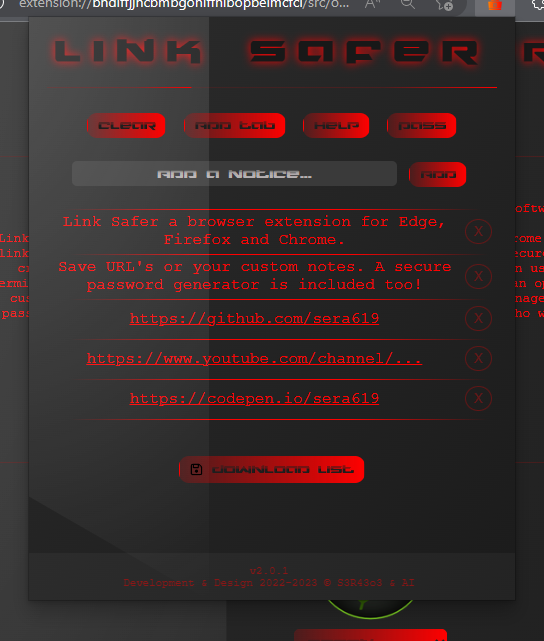
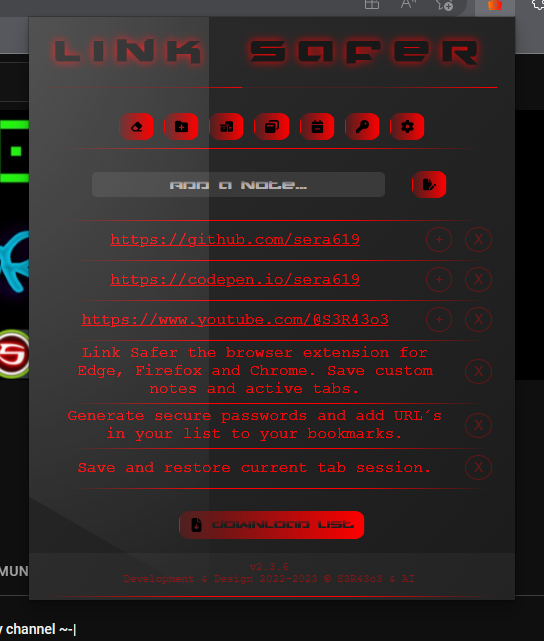
hotfix bugs add bookmark and restore session

diff --git a/src/options.html b/src/options.html
@@ -5,7 +5,7 @@
     <meta http-equiv="Content-Type" content="text/html;charset=UTF-8" />
     <meta name="viewport" content="width=device-width, initial-scale=1.0">
     <title>Link Safer | Help</title>
-    <link rel="stylesheet"  href="../style.css">
+    <link rel="stylesheet" href="../style.css">
     <script src="options.js"></script>
 </head>
 <body class="optionbody">
@@ -17,20 +17,44 @@
             <hr class="line-anim">
             <h4>Current Version: <u id="version">1.3.2</u></h4>
             <p id="option-desc">First off, thank you very much for using my software!<br>
-                <br>Link Safer is a browser extension for Microsoft Edge and Google Chrome that allows users to save links and notes securely. Its been planned a feature to generate secure passwords. Link Safer is created by S3R43o3 using HTML, CSS, and JavaScript. The extension uses the storage and tabs permissions to store and access the user's data. The extension has an options page where users can customize their settings, and a popup where users can view and manage their links, notes, and passwords. Link Safer is a useful and convenient tool for anyone who wants to keep their online data safe and organized.
+                <br>Link Safer is a browser extension for Microsoft Edge and Google Chrome that allows users to save links and notes securely. It has a planned feature to generate secure passwords. Link Safer is created by S3R43o3 using HTML, CSS, and JavaScript. The extension uses the storage and tabs permissions to store and access the user's data. The extension has an options page where users can customize their settings and a popup where users can view and manage their links, notes, and passwords. Link Safer is a useful and convenient tool for anyone who wants to keep their online data safe and organized.
                 <br>
             </p>
+            <div class="line"></div>
+            <br>
+            <br>
+            <br>
+    <h2>User instructions</h2>
+            <br>
+            <br>
+	<ol>
+		<li>To add a new link or notice, enter the URL or text in the input field and click the "Add" button.</li>
+		<li>To add the current active tab to the list, click the "Add Current Tab" button.</li>
+		<li>To remove a link or notice from the list, click the "X" button next to it.</li>
+		<li>To open a link, click on the link text.</li>
+		<li>To add a link to bookmarks, click the "+" button next to it.</li>
+		<li>To clear the entire list, click the "Clear List" button.</li>
+		<li>To download the list as a text file, click the "Download" button.</li>
+		<li>To open the options/help menu, click the "Options" button.</li>
+		<li>To open the password generator, click the "Password Generator" button.</li>
+		<li>To save the current tab session, click the "Save Session" button.</li>
+		<li>To restore the saved tab session, click the "Restore Session" button.</li>
+	</ol>
+
+	<p>Please note that URLs starting with "http", "https", "chrome:", "edge:", or "chrome-extension:" are considered safe and clickable.</p>
         </div>
         <br>
         <br>
+        <div class="line"></div>
         <br>
         <br>
         <br>
         <br>
         <div class="optionsection">
             <h2>Options</h2>
-            <hr class="line-anim">
-            <label for="iconselect">Choose a iconstyle</label>
+            <br>
+            <br>
+            <label for="iconselect">Choose an icon style</label>
             <br>
             <div class="iconpreview">
                 <br>
@@ -43,40 +67,25 @@
                 <option value="hacker">Hacker</option>
                 <option value="smart-key">Smart Key</option>
                 <option value="web-key">Web Key</option>
-              </select>
-              <br>
-              <br>
-
+            </select>
+            <br>
+            <br>
             <button id="change-icon-btn" class="button-with-icon">
                 <img src="../assets/img/rotate-solid.svg" alt="GitHub Icon" class="icon">
                 Change Icon
             </button>
-            <!--
-
-                <div class="color-scheme-container">
-                    <label for="color-scheme">Choose a color scheme</label>
-                    <input type="radio" id="color-scheme-light" name="color-scheme" value="light" checked>
-                    <label for="color-scheme-light">Light</label>
-                    <input type="radio" id="color-scheme-dark" name="color-scheme" value="dark">
-                    <label for="color-scheme-dark">Dark</label>
-                </div>
-                <br>
-                <button id="change-scheme-btn" class="button-with-icon">
-                <img src="/assets/img/rotate-solid.svg" alt="GitHub Icon" class="icon">
-                Change Theme
-            </button>
-        -->
+            
         </div>
-        <br>
         <br>
         <br>
         <br>
         <br>
         <p id="option-desc">
             <h2>Contact</h2>
-            <hr class="line-anim">
+            
+            <br>
             <br><b><u>Please note:</u></b><br>This project is special. The addon is being developed by an artificial intelligence, with little assistance from me.
-            <br>If you have any problems, suggestions or questions, you can reach me via the following buttons.
+            <br>If you have any problems, suggestions, or questions, you can reach me via the following buttons.
             <br>
             <br>
             <b>All the best!</b>
@@ -84,27 +93,26 @@
             <b>2023 © S3R43o3</b>
         </p>
         <div class="social-container">
-            
-                <button id="social-github" class="button-with-icon">
-                    <img src="../assets/img/github.svg" alt="GitHub Icon" class="icon" >
-                    Github
-                </button>
-                <br>
-                <br>
-                <button id="social-youtube" class="button-with-icon">
-                    <img src="../assets/img/youtube.svg" alt="GitHub Icon" class="icon" >
-                    Youtube
-                </button>
-                <br>
-                <button id="social-codepen" class="button-with-icon">
-                    <img src="../assets/img/codepen.svg" alt="GitHub Icon" class="icon" >
-                    Codepen
-                </button>
-                <br>
-                <button id="social-thm" class="button-with-icon">
-                    <img src="../assets/img/user-secret-solid.svg" alt="GitHub Icon" class="icon">
-                    TryHackMe
-                </button>
+            <button id="social-github" class="button-with-icon">
+                <img src="../assets/img/github.svg" alt="GitHub Icon" class="icon" >
+                GitHub
+            </button>
+            <br>
+            <br>
+            <button id="social-youtube" class="button-with-icon">
+                <img src="../assets/img/youtube.svg" alt="YouTube Icon" class="icon" >
+                YouTube
+            </button>
+            <br>
+            <button id="social-codepen" class="button-with-icon">
+                <img src="../assets/img/codepen.svg" alt="CodePen Icon" class="icon" >
+                CodePen
+            </button>
+            <br>
+            <button id="social-thm" class="button-with-icon">
+                <img src="../assets/img/user-secret-solid.svg" alt="TryHackMe Icon" class="icon">
+                TryHackMe
+            </button>
         </div>
     </center>
 </body>

diff --git a/popup.js b/popup.js
@@ -226,7 +226,7 @@ function myConfirm(message, title = "Attention") {
 	modalContent.style.display = "block";
 	modalContent.style.margin = "8px";
 	modalContent.style.padding = "20px";
-	modalContent.style.border = "1px solid #888";
+	//modalContent.style.border = "1px solid #888";
 	modalContent.style.width = "80%";
 
 	var h = document.createElement("h3");
@@ -234,6 +234,7 @@ function myConfirm(message, title = "Attention") {
 
 	modalContent.appendChild(h);
 	var hr = document.createElement("hr");
+	hr.className = "line-anim"
 	modalContent.appendChild(hr);
 
 	var p = document.createElement("p");
@@ -299,12 +300,42 @@ function getBookmarkDirs(callback) {
 	});
 }
 
+function createBookmark() {
+    const bookmarkName = document.getElementById("bookmark-name");
+    const bookmarkURL = document.getElementById("bookmark-url");
+    const bookmarkDirSelect = document.getElementById("bookmark-dir-select");
+    const selectedDir = bookmarkDirSelect.options[bookmarkDirSelect.selectedIndex].text;
+
+	if(bookmarkName === ""){
+		myConfirm("Please enter a valid name for your new bookmark!", "attention");
+		return;
+	} else {
+
+		chrome.bookmarks.getTree(function (bookmarkTreeNodes) {
+			bookmarkTreeNodes.forEach(function (node) {
+				if (node.children) {
+					node.children.forEach(function (child) {
+						if (child.title === selectedDir) {
+							chrome.bookmarks.create({ parentId: child.id, title: bookmarkName.value, url: bookmarkURL.value }, function (newBookmark) {
+								//console.log("Bookmark created:", newBookmark);
+								myConfirm("The URL: "+bookmarkURL+" successfully saved with name: "+bookmarkName+" !", "success");
+								bookmarkName.value = "";
+								bookmarkURL.value = "";
+							});
+						}
+					});
+				}
+			});
+		});
+	}
+}
+
+
 function showBookmarkDisplay(link) {
 	var bookmarkframe = document.getElementById("bookmarkframe");
 	var mainframe = document.getElementById("main");
 	bookmarkframe.toggleAttribute("hidden");
 	mainframe.toggleAttribute("hidden");
-	const bookmarkName = document.getElementById("bookmark-name");
 	const bookmarkURL = document.getElementById("bookmark-url");
 	const bookmarkDirSelect = document.getElementById("bookmark-dir-select");
 	bookmarkURL.value = link;
@@ -375,7 +406,7 @@ async function downloadTextFile() {
 		a.href = url;
 		a.download = "links.txt";
 		a.click();
-		myConfirm("Your link & notice list successfully downloaded!", "Information");
+		myConfirm("Your link & notice list successfully downloaded!", "success");
 		a.remove();
 	});
 }
@@ -412,30 +443,36 @@ function addTooltip(element, description) {
 }
 
 function restoreTabsFromSyncStorage() {
-	chrome.storage.sync.get("savedTabs", function (result) {
-		var tabData = result.savedTabs || [];
+	chrome.storage.sync.get('savedTabs', function (data) {
+		var savedTabs = data.savedTabs || [];
 
-		tabData.forEach(function (tab) {
+		savedTabs.forEach(function (tab) {
 			chrome.tabs.create({
-				url: tab.url,
-				active: false
+				url: tab.url
 			});
 		});
 
-		console.log("Tabs restored from sync storage:", tabData);
+		console.log("Tabs restored from sync storage:", savedTabs);
+		myConfirm("Last saved tab session successfully restored from sync storage!", "success")
 	});
 }
 
+function deleteTabsFromSyncStorage() {
+	chrome.storage.sync.remove('savedTabs', function () {
+		console.log("Tabs deleted from sync storage");
+		myConfirm("Tabs deleted from sync storage successfully!", "success");
+	});
+}
+
+
 function saveTabsToSyncStorage() {
-	chrome.sessions.getRecentlyClosed({
-		maxResults: 100
-	}, function (sessions) {
-		var tabData = sessions.filter(function (session) {
-			return session.tab && session.tab.url.startsWith("http");
-		}).map(function (session) {
+	chrome.tabs.query({}, function (tabs) {
+		var tabData = tabs.filter(function (tab) {
+			return tab.url.startsWith("http");
+		}).map(function (tab) {
 			return {
-				url: session.tab.url,
-				title: session.tab.title,
+				url: tab.url,
+				title: tab.title,
 			};
 		});
 
@@ -443,10 +480,10 @@ function saveTabsToSyncStorage() {
 			savedTabs: tabData
 		}, function () {
 			console.log("Tabs saved to sync storage:", tabData);
+			myConfirm("Tab session successfully saved to sync storage", "success")
 		});
 	});
 }
-
 
 
 // init popup and eventhandler
@@ -483,9 +520,6 @@ document.addEventListener("DOMContentLoaded", function () {
 	const notifyButton = document.getElementById("notify-btn");
 	notifyButton.addEventListener("click", function (event) {
 		event.preventDefault();
-		//showNotify();
-		//showAlert("Testalert");
-		//myConfirm("Test");
 		changeDisplayFrame();
 	});
 	addTooltip(notifyButton, "Open passwordgenerator");
@@ -493,19 +527,27 @@ document.addEventListener("DOMContentLoaded", function () {
 	addTooltip(addNoteButton, "Add note to list");
 
 	const saveSessionButton = document.getElementById("save-session-btn");
-	saveSessionButton.addEventListener("click", function(event){
+	saveSessionButton.addEventListener("click", function (event) {
 		event.preventDefault();
 		saveTabsToSyncStorage();
 
 	})
 	addTooltip(saveSessionButton, "Save your current tab session");
-	
+
 	const restoreSessionButton = document.getElementById('restore-session-btn');
-	restoreSessionButton.addEventListener("click", function(event){
+	restoreSessionButton.addEventListener("click", function (event) {
 		event.preventDefault();
 		restoreTabsFromSyncStorage();
 	})
 	addTooltip(restoreSessionButton, "Restore your saved tab session");
+
+	const clearSessionButton = document.getElementById("clear-session-btn");
+	clearSessionButton.addEventListener("click", function(event) {
+		event.preventDefault();
+		deleteTabsFromSyncStorage();
+	})
+	addTooltip(clearSessionButton,"Delete saved tab session");
+
 
 	const passlenslider = document.getElementById("password-length");
 	const passsizetext = document.getElementById("passlen");
@@ -539,11 +581,18 @@ document.addEventListener("DOMContentLoaded", function () {
 		showBookmarkDisplay();
 	})
 
+	const addBookmarkButton = document.getElementById('add-bookmark-btn');
+	addBookmarkButton.addEventListener("click", function(event){
+		event.preventDefault();
+		createBookmark();
+	})
+
 	const donwloadBtn = document.getElementById("download-list-btn");
 	donwloadBtn.addEventListener("click", function (event) {
 		event.preventDefault();
 		downloadTextFile();
 	});
+
 	const VERSIONNUM = getExtensionVersion();
 	var version =
 		"v" + VERSIONNUM + "\nDevelopment & Design 2022-2023 © S3R43o3 & AI";

diff --git a/popup.html b/popup.html
@@ -43,6 +43,13 @@
             class="icon-only"
             style="fill: #1e1e1e">
           </button>
+          <button class="button-with-icon" id="clear-session-btn">
+            <img
+            src="../assets/img/calendar-minus-solid.svg"
+            alt="generate Icon"
+            class="icon-only"
+            style="fill: #1e1e1e">
+          </button>
           <button class="button-with-icon" id="notify-btn">
             <img
             src="../assets/img/key-solid.svg"
@@ -88,7 +95,6 @@
             </li>
           </ul>
         </div>
-        <br />
         <br />
         <div hidden id="downloadbtnbox">
           <button id="download-list-btn" class="button-with-icon">
@@ -157,7 +163,7 @@
         </div>
       </div>
 
-
+      <!-- Bookmark Section -->
       <div hidden id="bookmarkframe" class="add-bookmark">
         <h2>Bookmark</h2>
         <hr class="line-anim">
